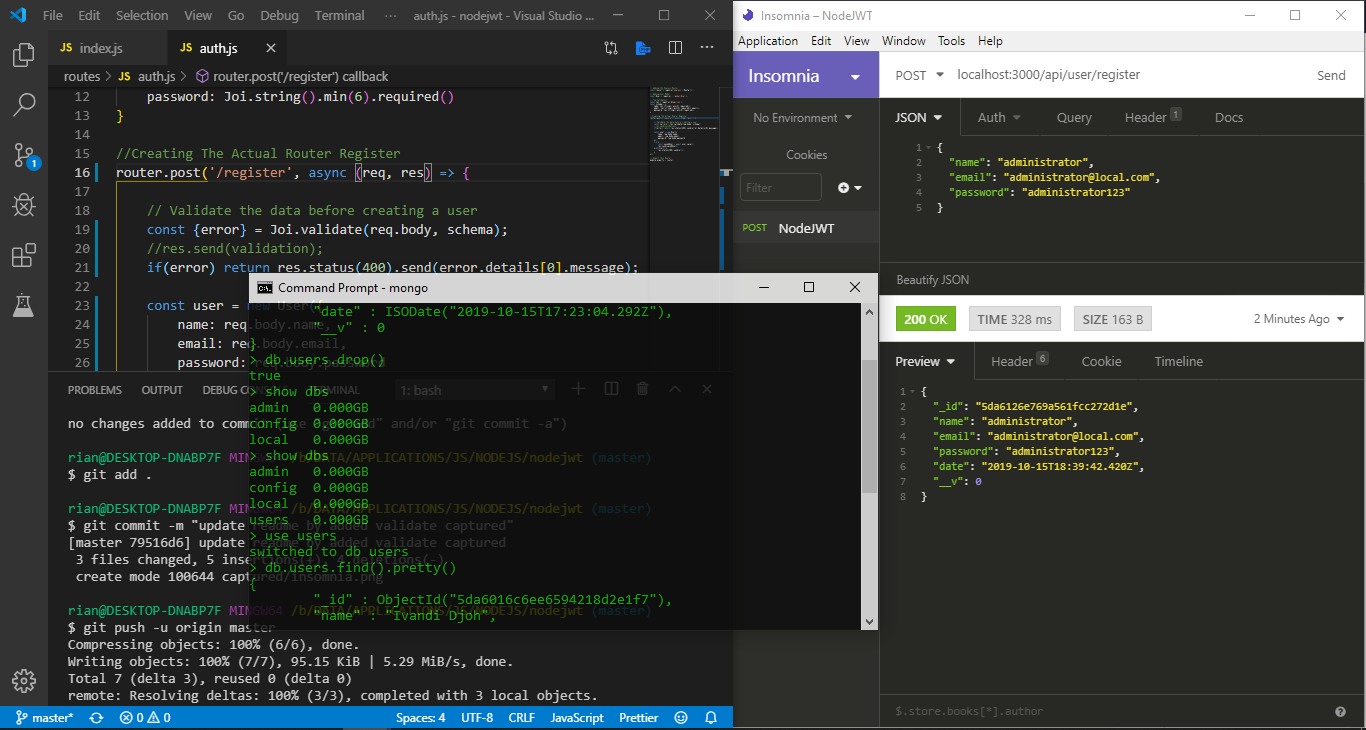
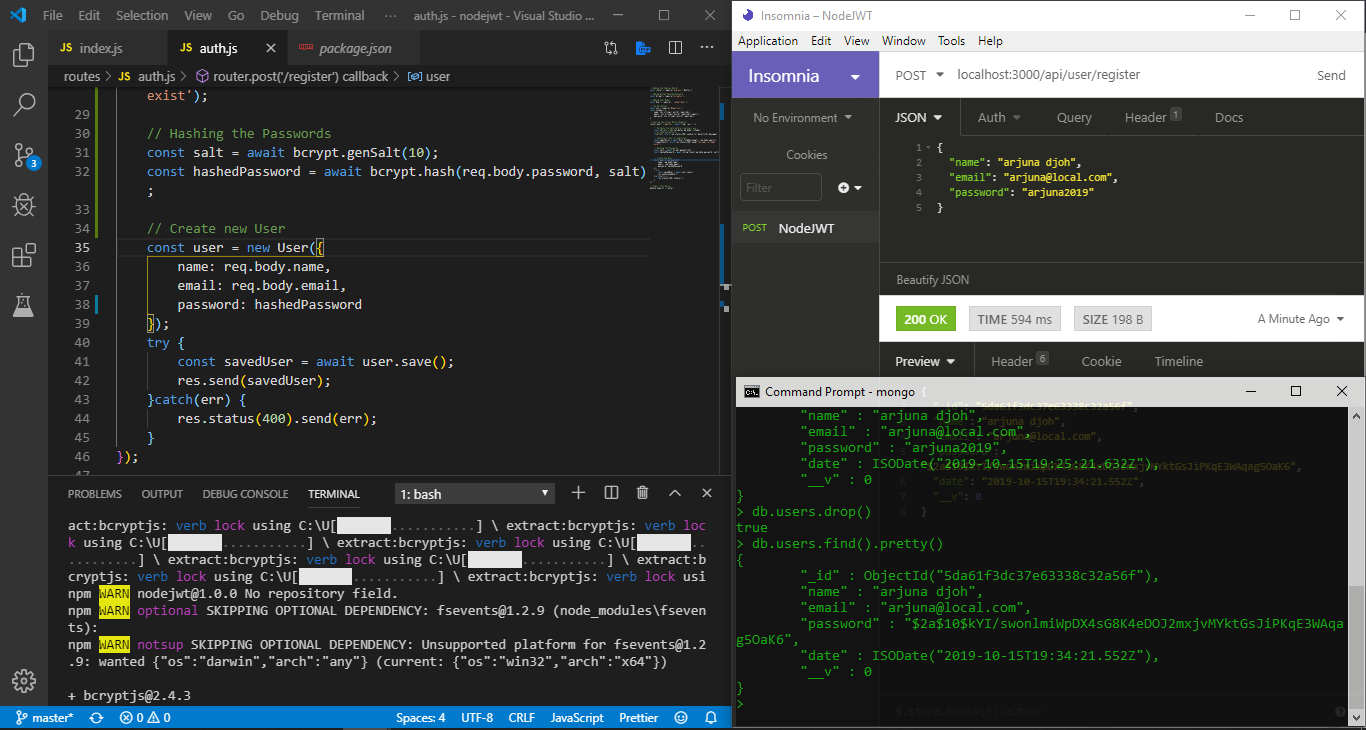
updated auth by added Hashing passwords using bcrypt

diff --git a/routes/auth.js b/routes/auth.js
@@ -1,6 +1,9 @@
 // Adding the Express Router
 const router = require('express').Router();
 
+// Adding Bcrypt Hashing Password
+const bcrypt = require('bcryptjs');
+
 // Adding User Model
 const User = require('../model/User');
 
@@ -20,10 +23,19 @@ router.post('/register', async (req, res) => {
     //res.send(validation);
     if(error) return res.status(400).send(error.details[0].message);
 
+    // Checking if User already exist
+    const emailExist = await User.findOne({email: req.body.email});
+    if(emailExist) return res.status(400).send('The email already exist');
+
+    // Hashing the Passwords
+    const salt = await bcrypt.genSalt(10);
+    const hashedPassword = await bcrypt.hash(req.body.password, salt);
+
+    // Create new User
     const user = new User({
         name: req.body.name,
         email: req.body.email,
-        password: req.body.password
+        password: hashedPassword
     });
     try {
         const savedUser = await user.save();
